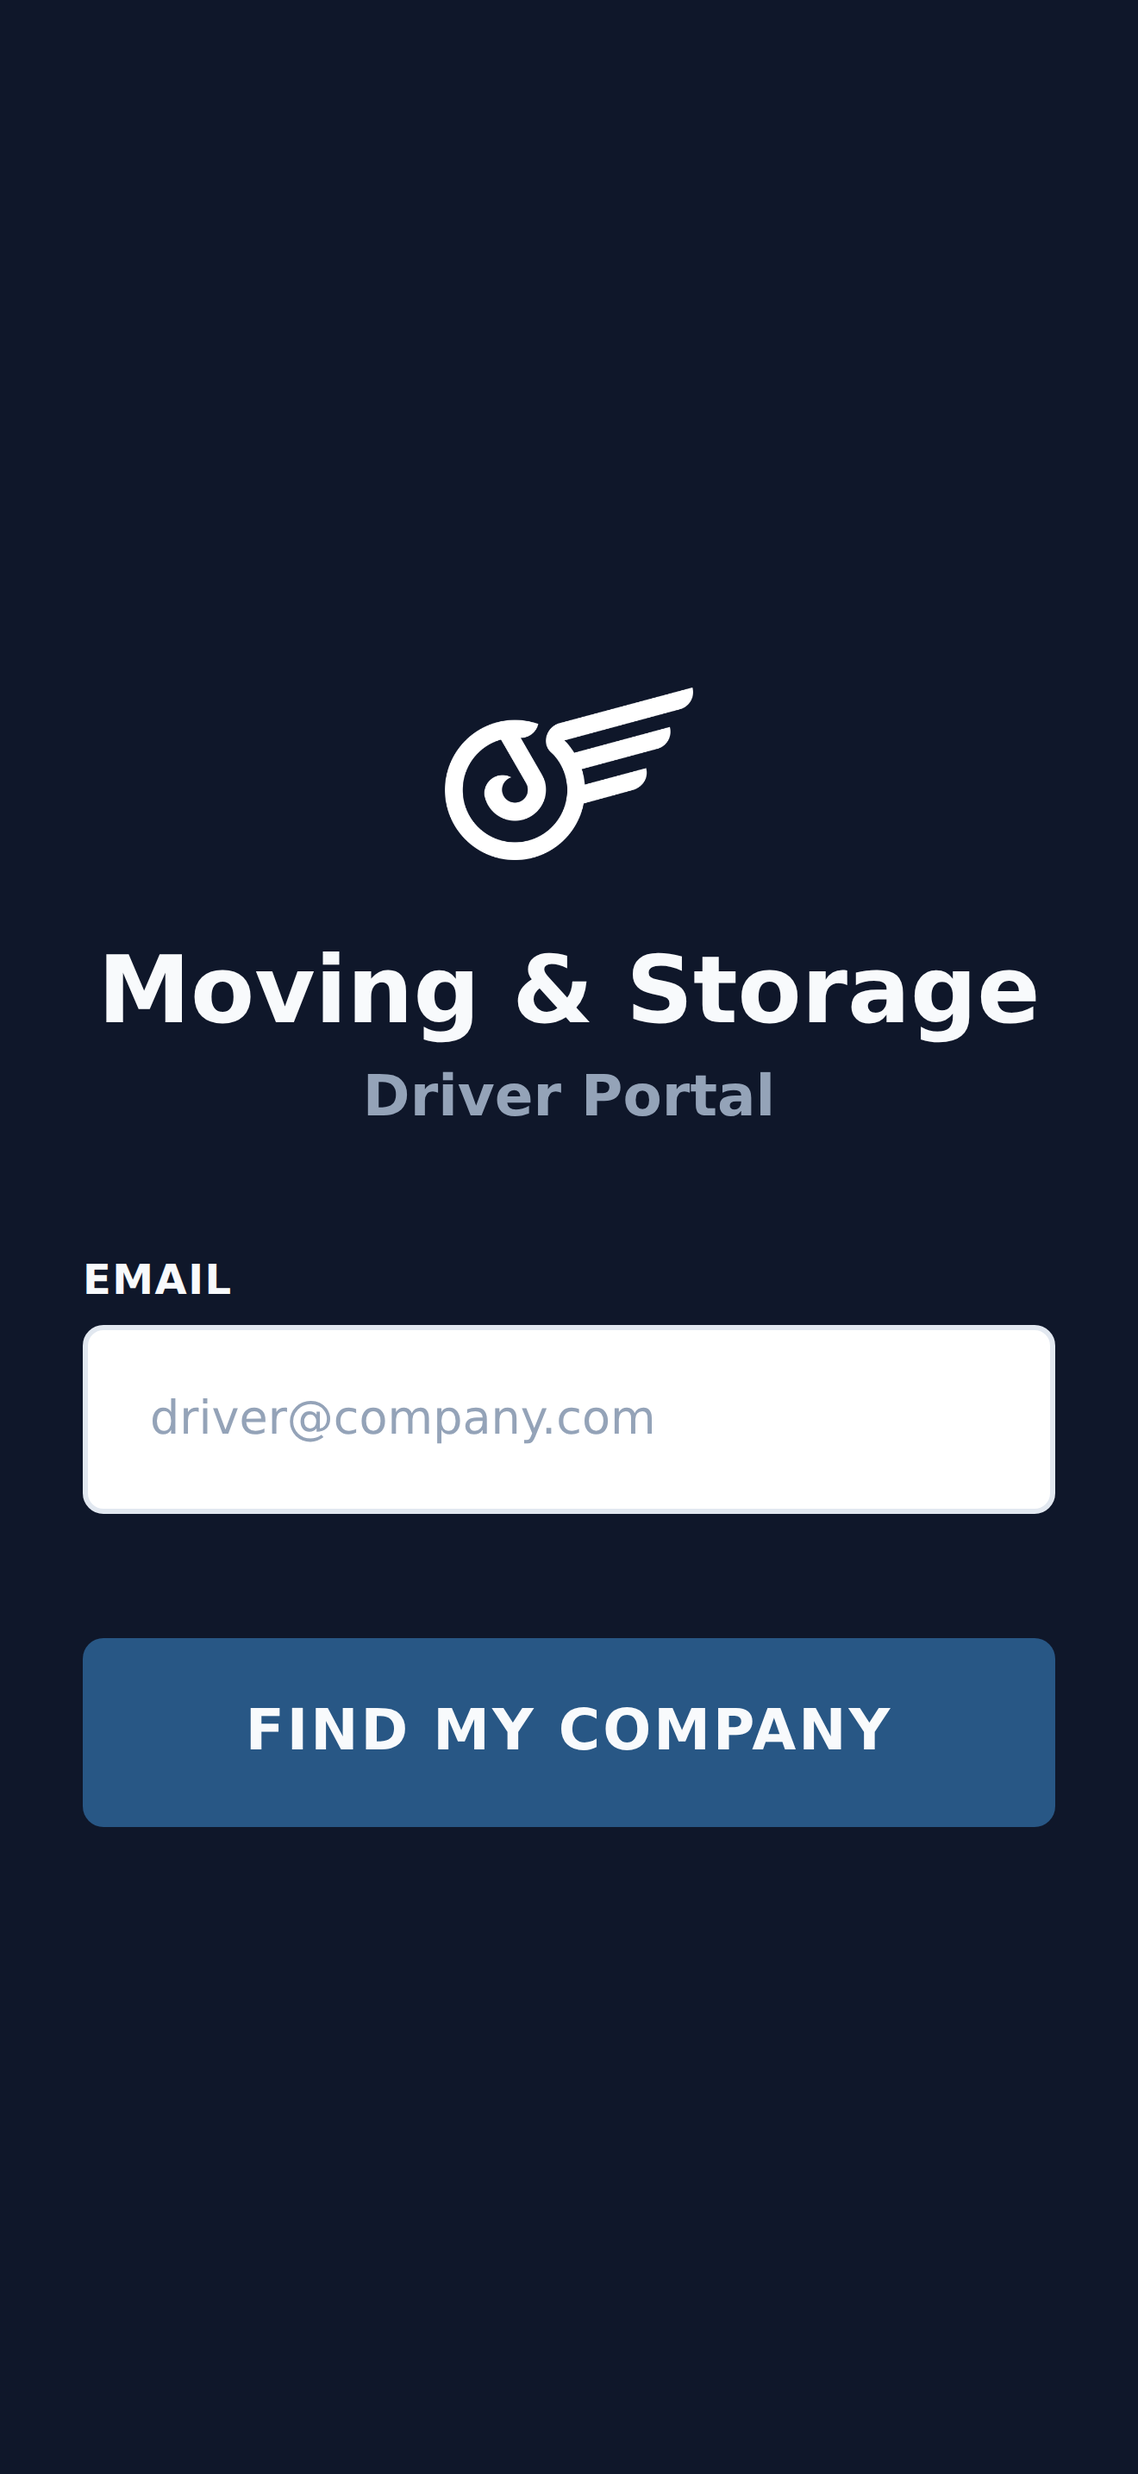
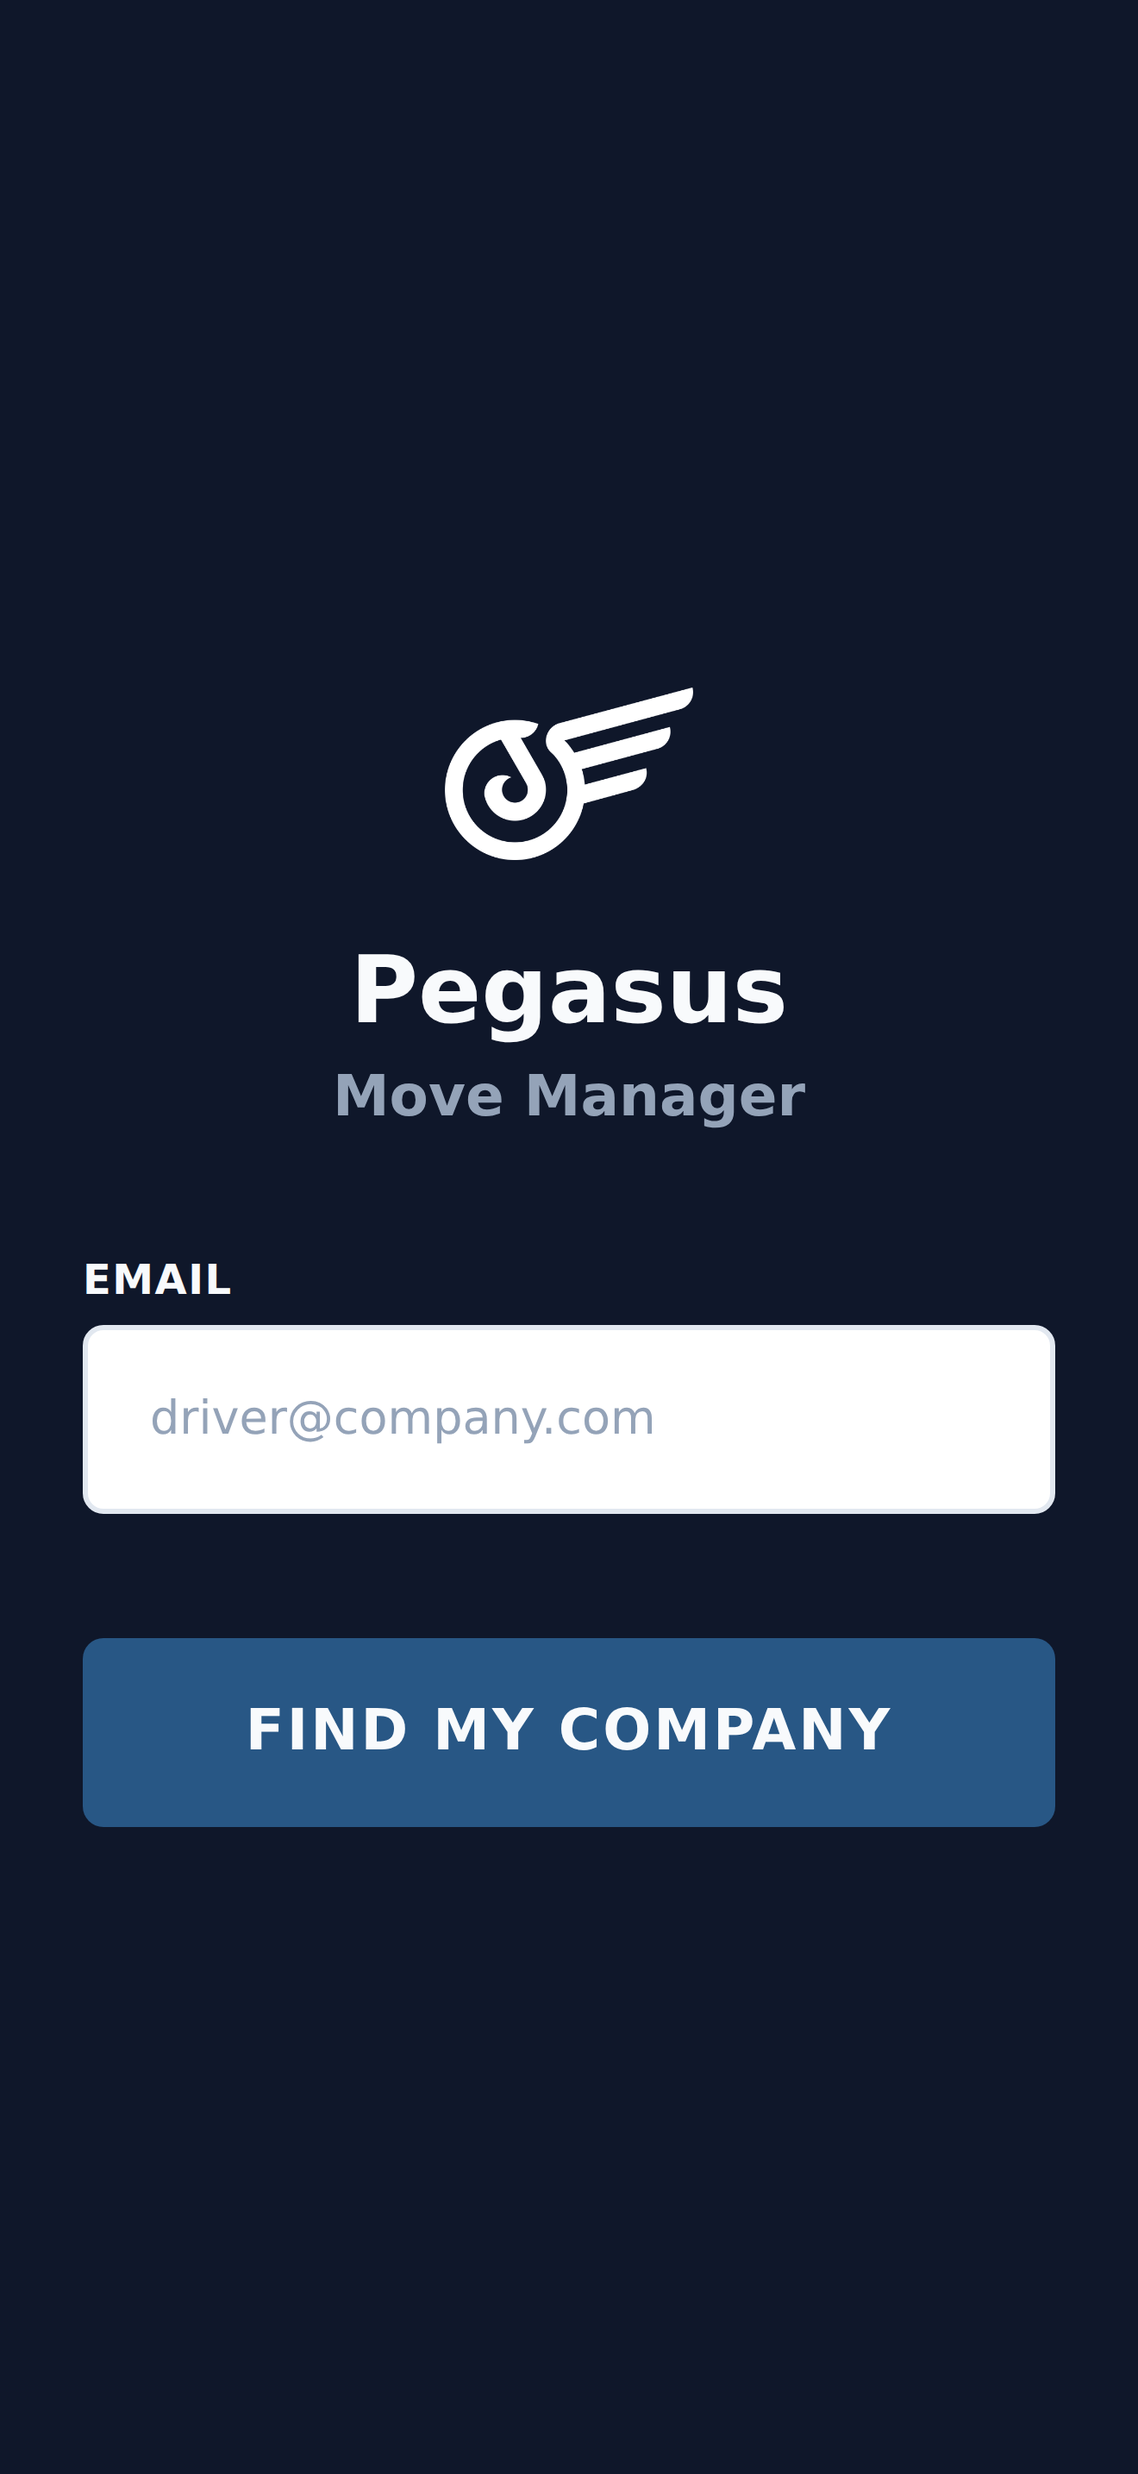
fix(mobile): drop dead location permissions and align the app name to Pegasus Move Manager
app.json declared NSLocationWhenInUseUsageDescription plus ACCESS_FINE_LOCATION/ACCESS_COARSE_LOCATION, but expo-location is not a dependency and nothing imports it. Play requires a location permission to be justified against a real in-app feature, and the published privacy policy already says these permissions are being removed. The resolved expo config now carries neither, and no node_modules AndroidManifest re-adds one.

The login screen said 'Moving & Storage / Driver Portal'. The brand is Pegasus and the product is Move Manager, so it now reads 'Pegasus / Move Manager', matching the store name and the drawer header; the Play feature graphic mirrors it. Only the login test and the capture's waitFor text were bound to the old strings. Listing images regenerated: only the 01-login shots and the feature graphic changed, 02-06 came out byte-identical.

store:export now bakes placeholder EXPO_PUBLIC_* config and passes --clear. A fresh worktree has no apps/mobile/.env, so the web export booted to the Configuration Error screen and every capture failed; and without --clear Metro's transform cache kept config.ts from the env-less run, so the placeholders never inlined.

Claude-Session: https://claude.ai/code/session_013UGBqSejDMi4Q9zHNoFXy9

Changed region(s): [[0.0932, 0.3724, 0.9008, 0.4655]]

diff --git a/apps/mobile/app/(auth)/login.tsx b/apps/mobile/app/(auth)/login.tsx
@@ -39,8 +39,8 @@ function BrandHeader() {
         accessibilityRole="image"
         accessibilityLabel="Pegasus"
       />
-      <Text style={styles.title}>Moving & Storage</Text>
-      <Text style={styles.subtitle}>Driver Portal</Text>
+      <Text style={styles.title}>Pegasus</Text>
+      <Text style={styles.subtitle}>Move Manager</Text>
     </View>
   )
 }
@@ -428,7 +428,7 @@ const styles = StyleSheet.create({
   subtitle: {
     fontSize: fontSize.xlarge,
     // NOT colors.primary — this screen's container is colors.backgroundDark and
-    // the two are the same #0F172A, which rendered "Driver Portal" invisible.
+    // the two are the same #0F172A, which rendered the subtitle invisible.
     color: colors.textDisabled,
     fontWeight: '600',
     textAlign: 'center',

diff --git a/apps/mobile/__tests__/app/(auth)/login.test.tsx b/apps/mobile/__tests__/app/(auth)/login.test.tsx
@@ -56,14 +56,14 @@ describe('LoginScreen', () => {
   })
 
   describe('email step (initial render)', () => {
-    it('renders "Moving & Storage" title', () => {
+    it('renders "Pegasus" title', () => {
       const { getByText } = render(<LoginScreen />)
-      expect(getByText('Moving & Storage')).toBeTruthy()
+      expect(getByText('Pegasus')).toBeTruthy()
     })
 
-    it('renders "Driver Portal" subtitle', () => {
+    it('renders "Move Manager" subtitle', () => {
       const { getByText } = render(<LoginScreen />)
-      expect(getByText('Driver Portal')).toBeTruthy()
+      expect(getByText('Move Manager')).toBeTruthy()
     })
 
     it('renders EMAIL label', () => {

diff --git a/plans/completed/store-submission.md b/plans/completed/store-submission.md
@@ -1,0 +1,109 @@
+# Mobile driver app — store submission
+
+Get `@pegasus/mobile` (Pegasus Move Manager, `com.movingstorage.driverapp`) from
+"builds land in the test tracks" to "publicly listed on the App Store and Google
+Play Production".
+
+The listing **assets** are done — #666 shipped icons, 6.9" iPhone + Play phone
+screenshots, the feature graphic and draft listing copy to
+`apps/mobile/store-assets/`. This plan is the submission itself: the code the
+stores will object to, the decisions only the product owner can make, and the
+console work.
+
+## Where things actually stand (verified 2026-09-12)
+
+| Thing                | State                                                                                                                                                          |
+| -------------------- | -------------------------------------------------------------------------------------------------------------------------------------------------------------- |
+| Listing assets       | **Done**, on `main` (#666). iOS 1320×2868 = the 6.9" set ASC requires; Play 1080×2400 + 1024×500 feature graphic; `ios/icon-1024.png`, `android/icon-512.png`. |
+| `ios.supportsTablet` | **`false`** — #666 made iOS phone-only. **No 13" iPad screenshot set is required.**                                                                            |
+| Privacy policy       | Live at `https://pegasus.dolas.dev/privacy.html`. Verify by **content**, not status code — the SPA fallback turns 404 into 200.                                |
+| Android              | vcode 15 on the **alpha / closed-testing** track (2026-08-08). Production promotion is manual + staged.                                                        |
+| iOS                  | TestFlight build 2 VALID (2026-08-13). Auto-submit wired (#627); ASC app `6800979383`, team `9NJ2BGU4TR`. Creds expire **2027-08-13**.                         |
+| Draft listing copy   | `apps/mobile/store-assets/listing/listing-copy.md` — descriptions, keywords, review notes, App Privacy guidance.                                               |
+
+**Both store builds predate #666.** vcode 15 and TestFlight build 2 were built
+before the real logo landed, so they still carry the placeholder. A fresh
+`mobile-release` dispatch on **both** platforms is required before either
+console submission — see "Rebuild" below.
+
+## Decisions (product owner)
+
+1. **RESOLVED 2026-09-15 — brand is Pegasus, product is Move Manager.** Store
+   name _Pegasus Move Manager_; login reads _Pegasus / Move Manager_; drawer
+   header _Pegasus_; feature graphic _Pegasus / MOVE MANAGER_. Was: the app
+   called itself three different things. `app.json` → _Pegasus Move
+   Manager_ (the chosen store name); the drawer header → _Pegasus_; the login
+   screen (`app/(auth)/login.tsx:42-43`) → _Moving & Storage_ / _Driver Portal_.
+   The login copy is the first thing a reviewer and every driver sees. Pick one
+   and we align the rest.
+2. **RESOLVED 2026-09-15 — the product owner already holds a demo account and
+   password** for App Review Information (never committed to the repo). Was: Apple requires a working login
+   with _seeded_ data; a login-walled app with an empty dashboard draws a 2.1
+   rejection, then a 4.2. This is not a seed script: driver trips come from
+   **longhaul MSSQL over the tunnel** (`/me/driver` → `/onprem/longhaul/trips`),
+   and the QA tunnel is on-demand only. A _permanent_ demo login needs a tenant
+   whose legacy backend is reachable 24/7 — a prod tenant with a real
+   `TenantUser.longhaulDriverId` mapping, or a stable demo data source. Decide
+   the shape before building anything.
+3. **RESOLVED by #690 (landed on `main` during this work) — marketing / support
+   URL.** `pegasusmovemanager.com` is now attached to the company site's
+   CloudFront distribution; the DNS alias records are the last step, in
+   dolas-infra (`pegasus:companySite:aliasEnabled`). Confirm the apex resolves
+   and serves before entering it in either console.
+
+## Code changes (this worktree)
+
+- [x] **Drop the dead location config.** `app.json` carries
+      `NSLocationWhenInUseUsageDescription` ("optimize delivery routes") and
+      `ACCESS_FINE_LOCATION` / `ACCESS_COARSE_LOCATION`, but `expo-location`
+      is **not a dependency** and nothing in `src/` or `app/` imports it. Play
+      makes you justify a location permission against a real in-app feature, and
+      the ASC App Privacy answer must not declare location. Remove all three.
+- [x] **Align the app name** — `login.tsx` + its test, `brand.json` subtitle,
+      feature graphic now renders `brand.shortName`, docs retitled. Nothing was
+      bound to the old strings beyond the login test and the capture's
+      `waitFor` text; the legal operator name in `privacy.html` was left alone.
+- [x] Re-ran `store:export && store:capture && store:compose`. Only the two
+      `01-login` shots and the feature graphic changed; 02–06 regenerated
+      byte-identical.
+- [x] **`store:export` made self-contained.** A fresh worktree has no
+      `apps/mobile/.env`, so the web export booted to the Configuration Error
+      screen and every capture failed. The script now bakes placeholder
+      `EXPO_PUBLIC_*` values (all `/api/*` calls are fixture-served) and passes
+      `--clear` — without it Metro's transform cache kept `config.ts` from the
+      env-less run and the placeholders never inlined.
+
+## Rebuild, then submit
+
+Prod dispatch is branch-protected to `main` — merge this branch first.
+
+```
+gh workflow run mobile-release.yml --ref main -f env=prod -f platform=android -f submit=true
+gh workflow run mobile-release.yml --ref main -f env=prod -f platform=ios -f ios_build=store -f submit=true
+```
+
+Workflow success means the build was **accepted**, not finished. Confirm via the
+EAS GraphQL recipe (session secret from `~/.expo/state.json`, header
+`expo-session`) — `eas build:view` fails locally in this hoisted monorepo.
+**Verify what actually got baked by grepping the AAB**, not the CI log: EAS
+server-side env vars override the composite-written `.env`.
+
+## Console work (manual, outside the repo)
+
+**App Store Connect** — listing copy + keywords from `listing-copy.md`; upload
+the 6.9" screenshots and `icon-1024.png`; App Review Information (demo account +
+notes on tenant selection and the hosted-UI SSO flow); App Privacy questionnaire
+(email, Cognito `sub`/tenant, camera/photos — **not** location); age rating 4+;
+category Business; submit for review.
+
+**Play Console** — listing copy, screenshots, feature graphic, icon; content
+rating questionnaire; Data safety form (mirror the ASC answers); then promote
+the validated closed-testing build to **Production** as a staged rollout.
+
+## Notes
+
+- `apps/e2e/.env.test` is tracked and the worktree provisioner rewrites its
+  `DATABASE_URL`. **It must not ride into the PR** — restore it with
+  `git restore apps/e2e/.env.test` before committing.
+- Land with `/workstream-finish` (one PR through the merge queue); archive this
+  plan `in-progress/ → completed/` in the implementation commit.

diff --git a/apps/mobile/DEPLOYMENT_GUIDE.md b/apps/mobile/DEPLOYMENT_GUIDE.md
@@ -1,8 +1,8 @@
-# Moving & Storage Driver App - Deployment Guide
+# Pegasus Move Manager - Deployment Guide
 
 ## Overview
 
-This guide provides step-by-step instructions for building and deploying the Moving & Storage Driver app to iOS and Android devices using Expo Application Services (EAS).
+This guide provides step-by-step instructions for building and deploying the Pegasus Move Manager driver app to iOS and Android devices using Expo Application Services (EAS).
 
 ---
 
@@ -264,13 +264,11 @@ TestFlight needs none of this; a public listing needs all of it.
   Every future update is re-reviewed, so make this a permanent demo tenant.
 - **Privacy policy URL** — mandatory, must be live and public.
 - **App Privacy questionnaire** — declare what is actually collected (contact
-  info, identifiers, camera/photos). Note `NSLocationWhenInUseUsageDescription`
-  claims route optimization but nothing in `src/` uses `expo-location`; don't
-  declare location collection that doesn't happen.
-- **Screenshots** — 6.9" iPhone at 1320×2868. `app.json` sets
-  `ios.supportsTablet: true`, which also obliges a 13" iPad set (2064×2752) and
-  means reviewers test on iPad; setting it `false` removes both burdens if the
-  driver UI isn't genuinely iPad-designed.
+  info, identifiers, camera/photos). The app requests no location permission —
+  don't declare location collection.
+- **Screenshots** — 6.9" iPhone at 1320×2868, generated in
+  `store-assets/ios/screenshots/`. `app.json` sets `ios.supportsTablet: false`
+  (phone-only), so no 13" iPad set is required and reviewers test on iPhone.
 - **App icon** — 1024×1024 PNG, no alpha. `assets/icon.png` has an alpha
   channel, but prebuild flattens it for iOS, so this is already satisfied.
 - Age rating questionnaire, category (Business), support URL, description
@@ -306,7 +304,7 @@ TestFlight needs none of this; a public listing needs all of it.
 1. Login to Google Play Console
 2. "Create app"
 3. Fill in details:
-   - **App name:** Moving & Storage Driver
+   - **App name:** Pegasus Move Manager
    - **Default language:** English
    - **App or game:** App
    - **Free or paid:** Free (or Paid)
@@ -396,7 +394,7 @@ Our app meets requirements with:
 
 **Include:**
 
-- What data is collected (email, location, photos)
+- What data is collected (email, identifiers, camera/photos)
 - How data is used (order management, delivery tracking)
 - Data storage and security
 - User rights (data deletion)

diff --git a/dolas/agents/project/GOTCHAS.md b/dolas/agents/project/GOTCHAS.md
@@ -105,6 +105,26 @@ Historically, every API handler had `try { ... } catch { return 500 }`. This pre
 
 The mobile app (`apps/mobile`) historically did not import `@pegasus/api-http` or `@pegasus/domain`. It used raw `fetch()`, local `AsyncStorage` mock data, and its own type definitions. The `mobile-api-integration` plan addresses this convergence. Until it lands, do not assume mobile shares any code with the web apps beyond `@pegasus/theme`.
 
+## Mobile Store Screenshots: Config Is Inlined at Bundle Time, and Metro Caches It
+
+`apps/mobile/store-assets` captures listing screenshots by driving a real
+`expo export --platform web` build. Expo inlines `process.env.EXPO_PUBLIC_*` into
+the bundle **at transform time**, so:
+
+- **A checkout with no `apps/mobile/.env` renders only the "Configuration Error"
+  screen**, and every capture fails with `never reached "<text>"` — including
+  screens whose copy you never touched. A fresh worktree is exactly that case.
+  `npm run store:export` therefore bakes placeholder `EXPO_PUBLIC_*` values itself
+  (every `/api/*` request is served from `fixtures/screens.json`, so the host never
+  matters).
+- **Metro's transform cache survives an env change.** Supplying the variables
+  after an env-less export still produced a bundle with them unset, because
+  `config.ts` came back from cache. `store:export` passes `--clear` for that
+  reason — do not drop it to save a few seconds.
+- **Diagnose from `FAILED-<screen>.png`**, which the capture writes next to the raw
+  shots on any failure, and confirm inlining with
+  `grep -c <expected-host> dist-web/_expo/static/js/web/entry-*.js`.
+
 ## Betterleaks Secret Scanning
 
 CI job `Secret Scanning (Betterleaks)` (`.github/workflows/ci.yml`) runs `betterleaks git .` over full history and fails the build on any finding.

diff --git a/apps/mobile/store-assets/listing/listing-copy.md b/apps/mobile/store-assets/listing/listing-copy.md
@@ -3,11 +3,9 @@
 Draft copy for both listings. Character limits are the hard store caps — the
 count after each field is the current draft's length.
 
-> **Unresolved:** the app calls itself three different things. `app.json` says
-> **Pegasus Move Manager** (the chosen store name), the drawer header says
-> **Pegasus**, and the login screen says **Moving & Storage / Driver Portal**.
-> The login copy is what a reviewer and every driver sees first. Worth aligning
-> before submission; not done here because it is a product-copy decision.
+> **Naming:** the brand is **Pegasus**, the product is **Move Manager**. The store
+> name is **Pegasus Move Manager**; the login reads _Pegasus / Move Manager_ and
+> the drawer header _Pegasus_.
 
 ---
 
@@ -101,10 +99,8 @@ Declare what is **actually** collected:
 - Contact info (email) — account
 - Identifiers (Cognito `sub`, tenant) — app functionality
 - Camera / photos — document capture, uploaded to the shipment
-- **Do not declare location.** `app.json` carries
-  `NSLocationWhenInUseUsageDescription` claiming route optimization, but nothing
-  in `src/` imports `expo-location`. Either drop the unused usage string or ship
-  the feature — declaring collection that does not happen is its own problem.
+- **Do not declare location.** The app requests no location permission on
+  either platform and collects none.
 
 ---
 

diff --git a/apps/mobile/store-assets/README.md b/apps/mobile/store-assets/README.md
@@ -25,6 +25,10 @@ Run from `apps/mobile/`.
 | `npm run store:capture` | Drives that build in Chromium and writes raw screenshots at exact store sizes.          |
 | `npm run store:compose` | Wraps the raw captures in branded panels and renders the Play feature graphic.          |
 
+`store:export` bakes placeholder `EXPO_PUBLIC_*` config — every `/api/*` call is
+served from fixtures, so it needs no `.env` and never embeds a real one — and
+passes `--clear`, because Metro caches the inlined env across runs.
+
 Full refresh:
 
 ```

diff --git a/apps/mobile/README.md b/apps/mobile/README.md
@@ -26,7 +26,7 @@ A production-ready React Native app built with Expo for truck drivers to manage 
 - **Routing**: Expo Router (file-based routing)
 - **State Management**: React Context + AsyncStorage
 - **Styling**: StyleSheet with design system
-- **Permissions**: Camera, Photo Library, Location
+- **Permissions**: Camera, Photo Library
 - **TypeScript**: Full type safety
 
 ## Prerequisites

diff --git a/apps/mobile/TESTING_GUIDE.md b/apps/mobile/TESTING_GUIDE.md
@@ -1,4 +1,4 @@
-# Testing Guide - Moving & Storage Driver App
+# Testing Guide - Pegasus Move Manager
 
 ## Overview
 
